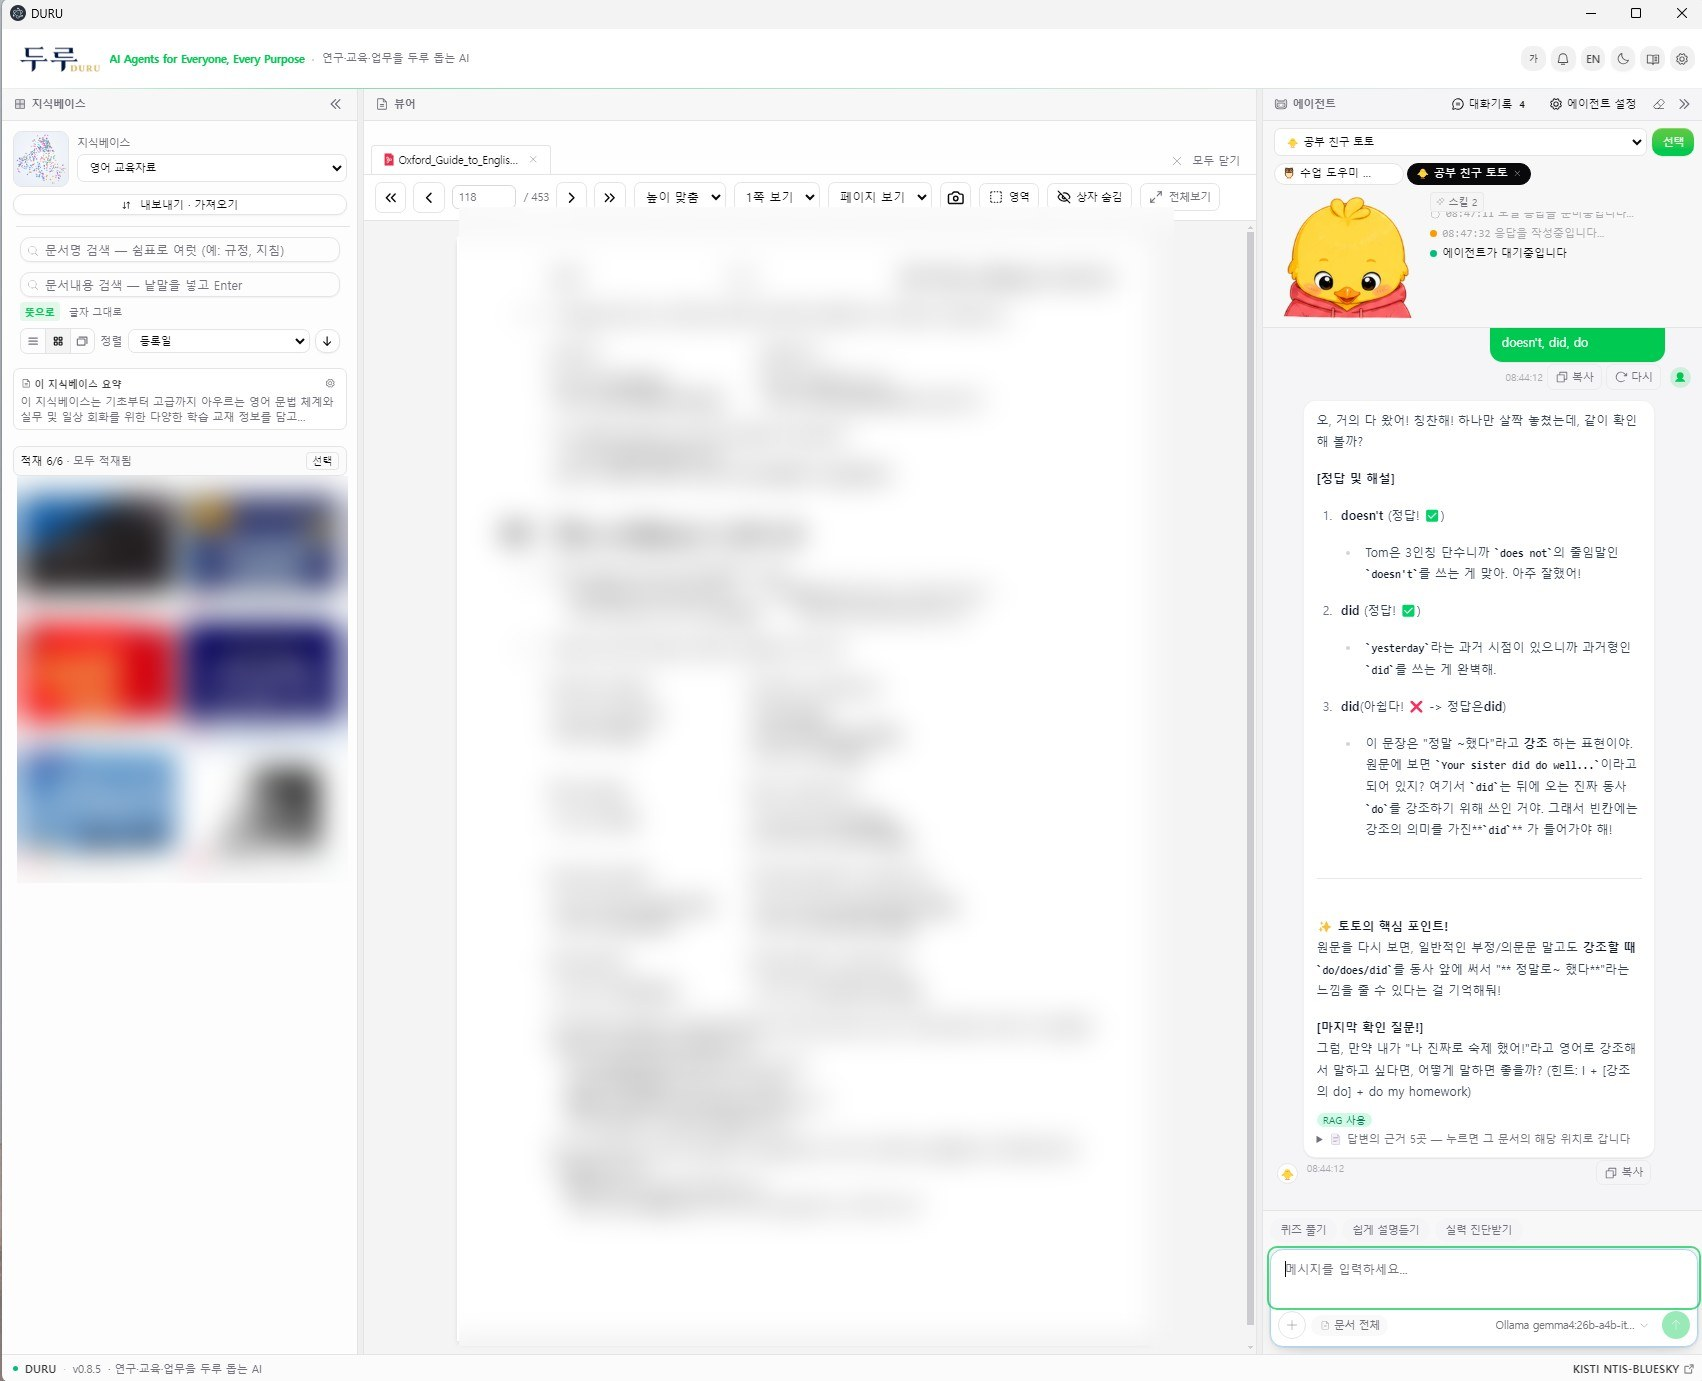
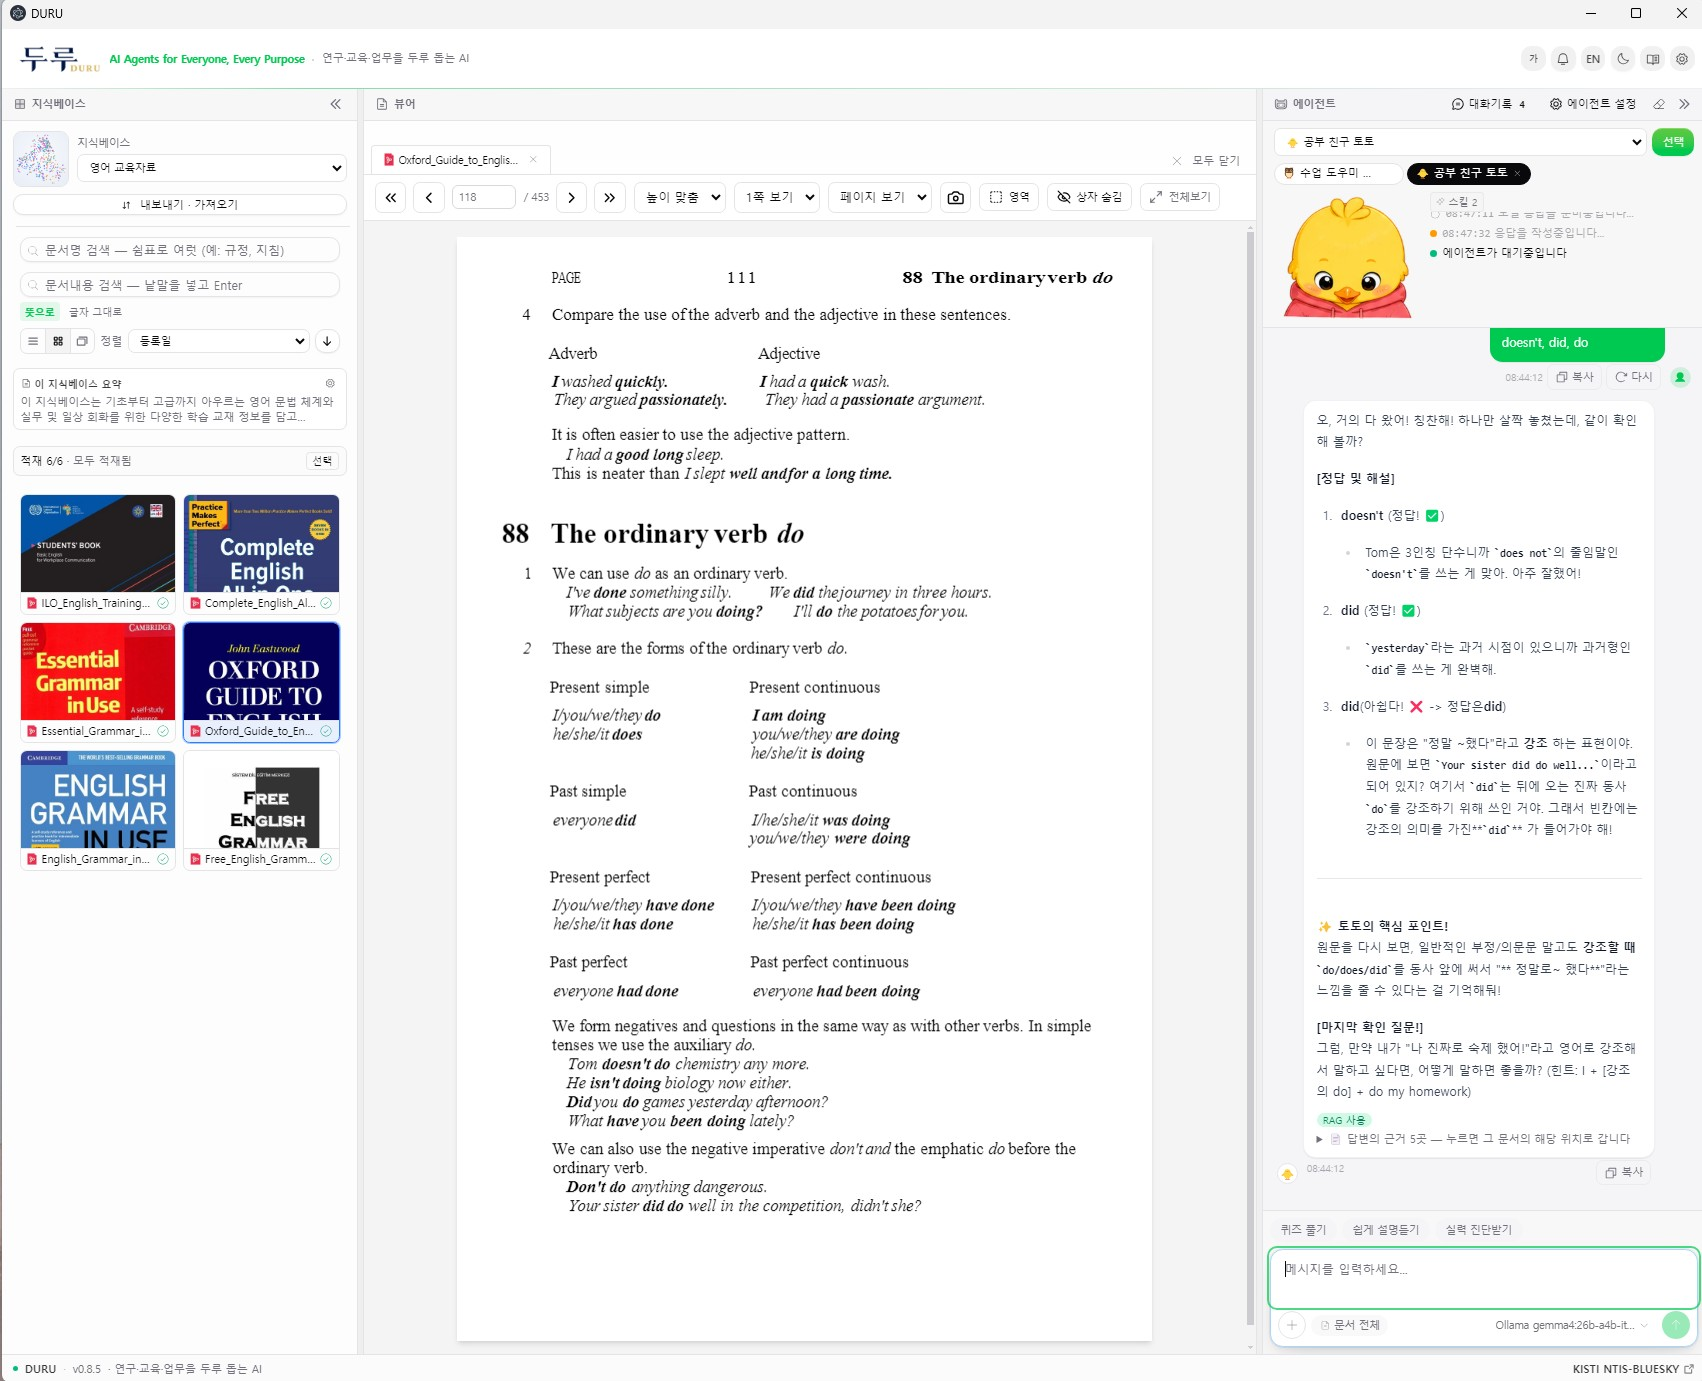
예제 그림 — 블러를 지우고, 쓰인 교재의 출처를 밝힌다
화면을 흐리게 가리는 대신, 여섯 권의 출처를 표로 적어 두는 쪽으로 바꿨다.
링크는 출판사·발행기관의 공식 페이지로만 건다 — 무단으로 올라온 PDF 사본은 걸지 않는다.
ILO 교재는 무료 공개본이라 공식 PDF 를 그대로 링크했고,
Cambridge 는 사이트가 장애 중이라 서지 정보(Open Library)로 걸었다.

문항이 교재의 문제집을 옮겨 온 것이 아니라는 점도 캡션에 적었다 —
구성·번역·해설은 토토가 만든 것이고, 예문만 그 쪽의 문장을 빈칸으로 바꾼 것이다.

Claude-Session: https://claude.ai/code/session_01KrnducfUYC4Zzdi2TJd2hC

diff --git a/README.en.md b/README.en.md
@@ -230,8 +230,9 @@ from it and mark your answers. Below is a real session with an English grammar b
 > works; none of them ship with DURU. **Bring your own textbook files** and build a
 > knowledge base from them — PDF, HWP, Word, e-book and scanned documents all work.
 >
-> The **book pages and covers are blurred** in these screenshots, out of respect for the
-> authors and publishers. Showing how the tool behaves does not require reproducing their work.
+> Rights in the books shown belong to their authors and publishers. The screens are reproduced
+> **as they appeared**, purely to show how the tool behaves — nowhere near enough of any book to
+> stand in for it. Every title is credited under "Textbooks used in the screenshots" below.
 
 ### ① Questions from the page you are reading
 
@@ -241,7 +242,9 @@ from it and mark your answers. Below is a real session with an English grammar b
 
 <sub>Ask *"set me some verb questions from this page"* and Toto builds them from the page you
 have **open right now** — one each on the present, the past and the emphatic use, with the
-Korean meaning alongside. Click any item under <b>evidence</b> to jump to that spot in the book.</sub>
+Korean meaning alongside. Click any item under <b>evidence</b> to jump to that spot in the book.
+<br>Note: the question set, the translations and the explanations are Toto's own; the sentences are
+the page's own examples with the verb blanked out. Nothing is lifted from the book's exercises.</sub>
 
 ### ② Answers marked, with the reason why
 
@@ -265,18 +268,20 @@ then adds one follow-up question to put the point to use.</sub>
 
 <br>
 
-The session above was run against the books below. **None of them ship with DURU**, and their
-pages and covers are blurred in the screenshots. Our thanks to the authors and publishers who
-made them. To try this yourself, use a **legitimately purchased** copy.
+The session above was run against the six books below. **None of them ship with DURU.**
+Our thanks to the authors and publishers who made them.
 
-| Textbook | Author · Publisher | Look up |
+Links point **only to the publisher's or issuing body's own page**. We do not link to
+unauthorised PDF copies. For the commercial titles, use a **legitimately purchased** copy.
+
+| Textbook | Author · Publisher | Source |
 | --- | --- | --- |
-| *Oxford Guide to English Grammar* | John Eastwood · Oxford University Press | [ISBN 978-0-19-431351-9](https://isbnsearch.org/isbn/9780194313519) |
-| *English Grammar in Use* | Raymond Murphy · Cambridge University Press | [ISBN 978-1-108-45765-1](https://isbnsearch.org/isbn/9781108457651) |
-| *Essential Grammar in Use* | Raymond Murphy · Cambridge University Press | [ISBN 978-1-108-92616-6](https://isbnsearch.org/isbn/9781108926166) |
-| *Practice Makes Perfect: Complete English All-in-One* | Ed Swick · McGraw Hill | [ISBN 978-1-260-46436-4](https://isbnsearch.org/isbn/9781260464364) |
-| *English Training for the Workplace (Students' Book)* | International Labour Organization | [ILO publications](https://www.ilo.org/publications) |
-| *Free English Grammar* | freely distributed material | — |
+| *Oxford Guide to English Grammar* | John Eastwood · Oxford University Press | commercial · [catalogue record](https://openlibrary.org/books/OL7385208M/Oxford_Guide_to_English_Grammar) |
+| *English Grammar in Use* | Raymond Murphy · Cambridge University Press | commercial · [catalogue record](https://openlibrary.org/isbn/9781108457651) |
+| *Essential Grammar in Use* | Raymond Murphy · Cambridge University Press | commercial · [catalogue record](https://openlibrary.org/works/OL1645784W) |
+| *Practice Makes Perfect: Complete English All-in-One for ESL Learners* | Ed Swick · McGraw Hill | commercial · [McGraw Hill](https://www.mheducation.com/highered/mhp/product/practice-makes-perfect-complete-english-all-one-esl-learners.html) |
+| *Basic English for Workplace Communication — Students' Book* | International Labour Organization | **free** · [official PDF](https://www.ilo.org/sites/default/files/wcmsp5/groups/public/@africa/@ro-abidjan/@sro-addis_ababa/documents/publication/wcms_883414.pdf) · [about](https://www.ilo.org/publications/basic-english-workplace-communication) |
+| *Free English Grammar* | freely distributed study material | publisher could not be identified, so no link is given |
 
 </details>
 
